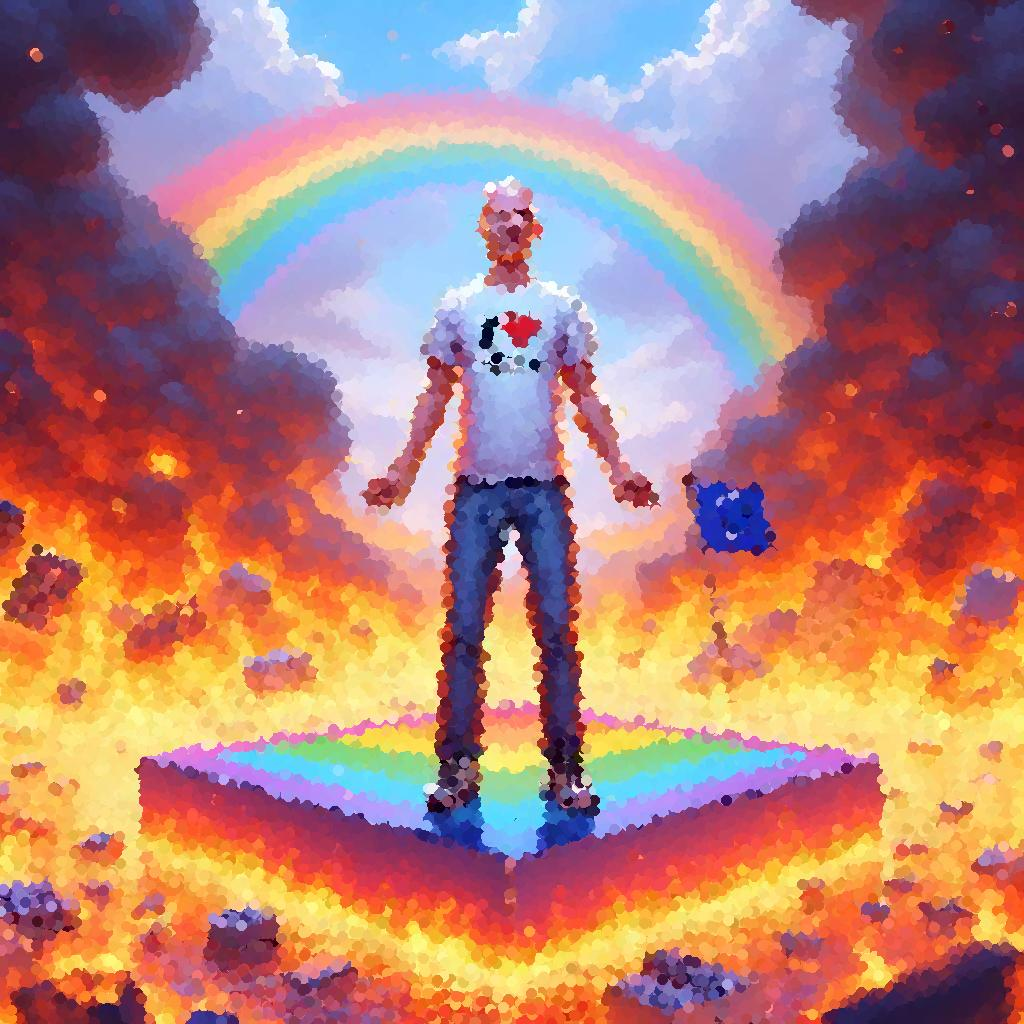
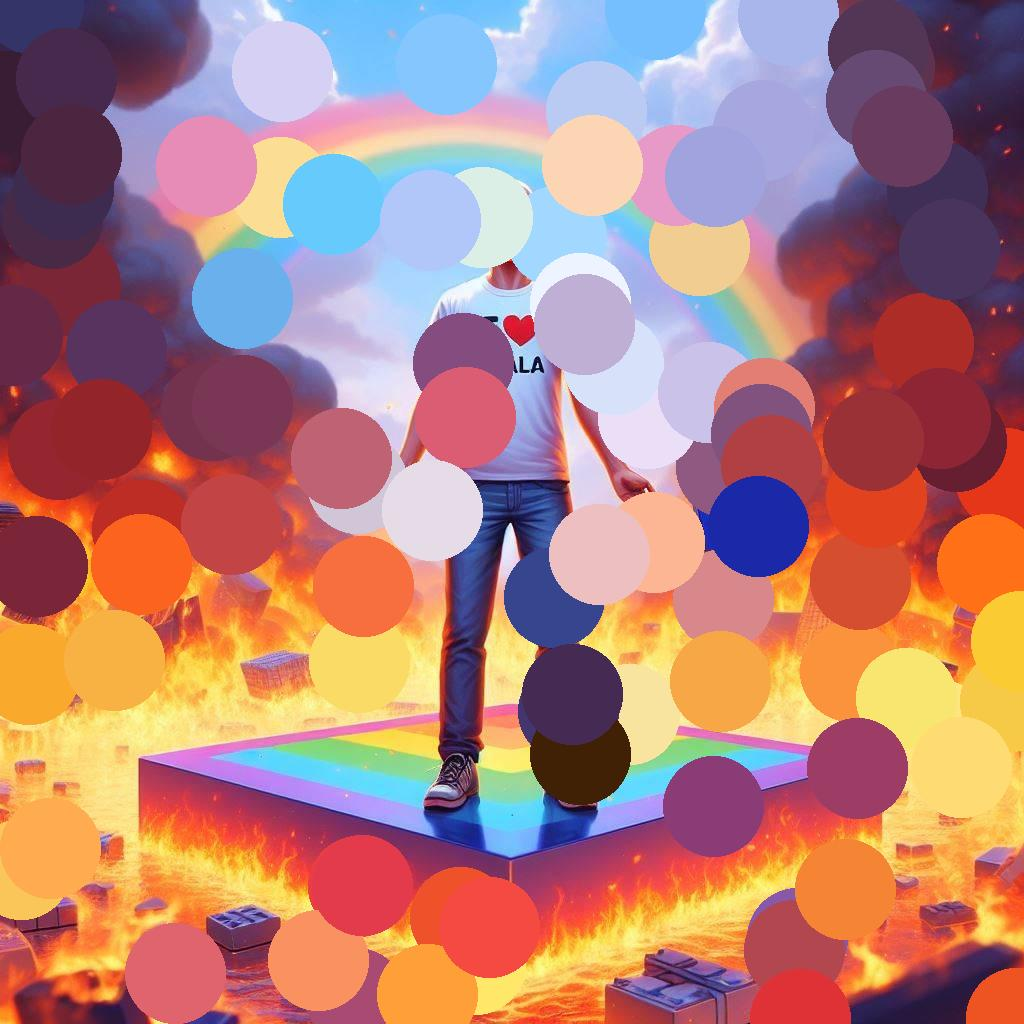
skrypt 2 wersja 0

diff --git a/obrazy/zestaw2/zad2/script.py b/obrazy/zestaw2/zad2/script.py
@@ -1,0 +1,45 @@
+from PIL import Image
+import numpy as np
+
+def local_contrast(image):
+    """
+    Oblicza globalny kontrast lokalny obrazu na podstawie ośmiospójnego sąsiedztwa.
+
+    Args:
+        image (np.ndarray): Obraz w odcieniach szarości jako macierz numpy.
+
+    Returns:
+        float: Średnia wartość kontrastu lokalnego dla całego obrazu.
+    """
+    M, N = image.shape
+    total_contrast = 0
+    pixel_count = 0
+
+    # Iteracja przez każdy piksel z uwzględnieniem krawędzi
+    for m in range(1, M-1):  # Omijamy krawędzie (sąsiedztwo 3x3)
+        for n in range(1, N-1):
+            center = image[m, n]
+            neighbors = [
+                image[m-1, n-1], image[m-1, n], image[m-1, n+1],
+                image[m, n-1],                 image[m, n+1],
+                image[m+1, n-1], image[m+1, n], image[m+1, n+1]
+            ]
+            local_contrast = np.mean(np.abs(center - np.array(neighbors)))
+            total_contrast += local_contrast
+            pixel_count += 1
+
+    # Obliczenie średniego kontrastu lokalnego
+    return total_contrast / pixel_count
+
+# Główna część programu
+if __name__ == "__main__":
+    # Wczytaj obraz
+    input_image_path = "muchaC.png"  # Ścieżka do obrazu
+    image = Image.open(input_image_path).convert("L")  # Konwersja do odcieni szarości
+    image_array = np.array(image, dtype=np.float64)  # Konwersja do macierzy NumPy
+
+    # Oblicz kontrast lokalny
+    contrast_value = local_contrast(image_array)
+
+    # Wyświetl wynik
+    print(f"Kontrast lokalny = {contrast_value:.3f}")

diff --git a/obrazy/zestaw1/zad5/script.py b/obrazy/zestaw1/zad5/script.py
@@ -1,7 +1,7 @@
 from PIL import Image, ImageDraw
 import random
 
-def apply_pointillism(image_path, output_path, num_dots=100000, dot_size=5):
+def apply_pointillism(image_path, output_path, num_dots=100, dot_size=50):
     original_image = Image.open(image_path)
     width, height = original_image.size
     
@@ -26,6 +26,6 @@ def apply_pointillism(image_path, output_path, num_dots=100000, dot_size=5):
     image.save(output_path)
     print(f"Obraz zapisany w: {output_path}")
 
-input_image = "zestaw1/zad5/michal.jpg"
-output_image = "zestaw1/zad5/przerobiony_michal.jpg"
+input_image = "michal.jpg"
+output_image = "przerobiony_michal.png"
 apply_pointillism(input_image, output_image)

diff --git a/obrazy/zestaw1/zad3/script.py b/obrazy/zestaw1/zad3/script.py
@@ -11,7 +11,7 @@ def convert_to_grayscale(image_path, output_path):
     
     grayscale_img.save(output_path)
 
-input_image = 'zestaw1/zad3/michal.jpg'
-output_image = 'zestaw1/zad3/szary_michal.jpg'
+input_image = 'michal.jpg'
+output_image = 'szary_michal.jpg'
 
 convert_to_grayscale(input_image, output_image)
